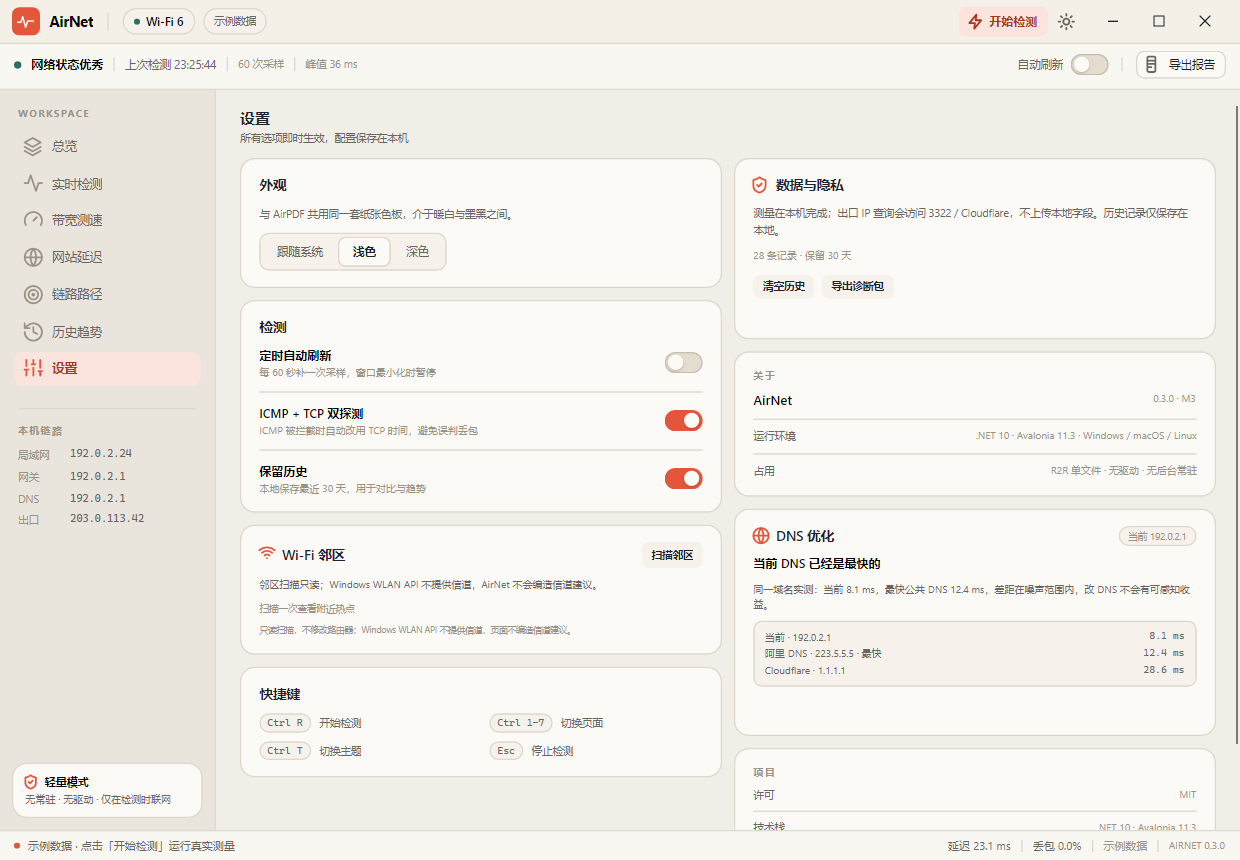
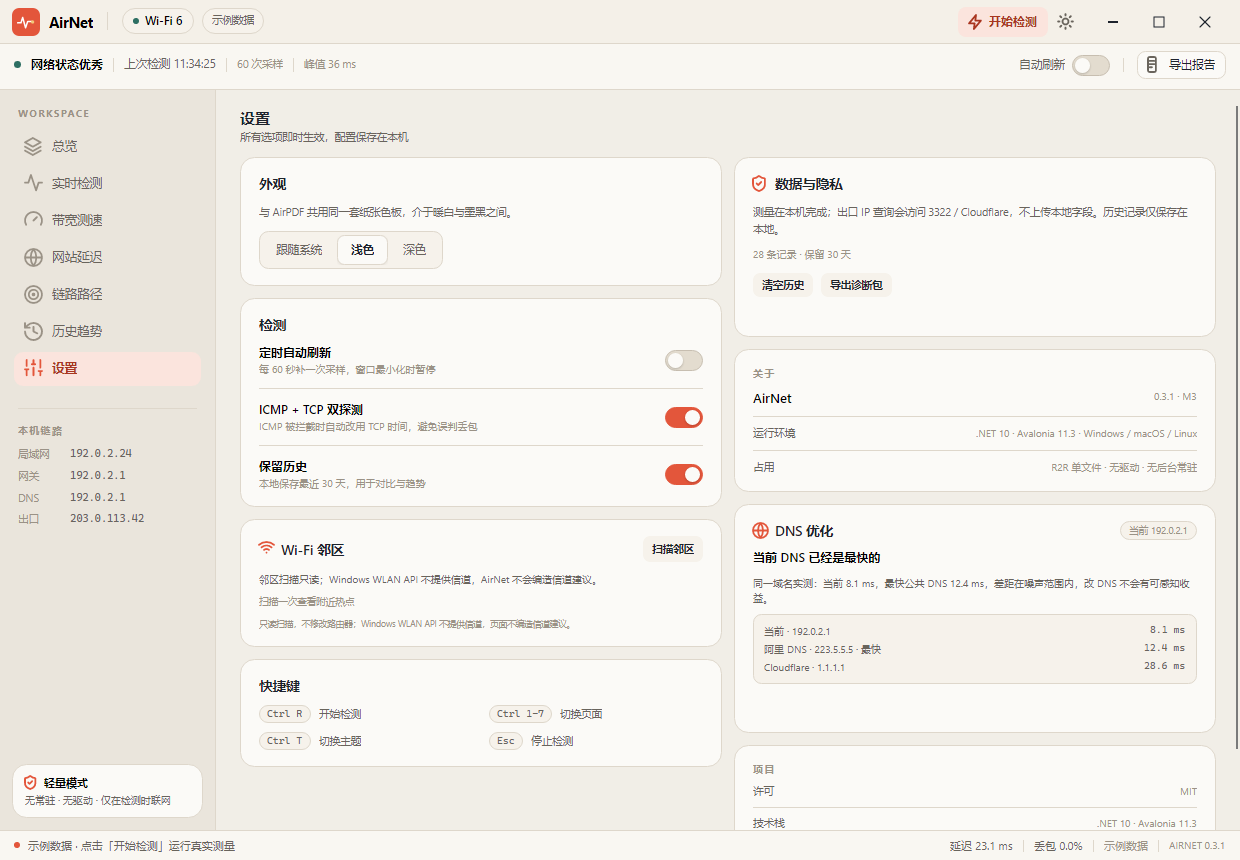
release: 0.3.1
Fix the stale test counts, read the displayed version from the running assembly, and document that the Store remains at 1.0.0.0 for this portable-only maintenance release. Refresh screenshots for the 0.3.1 footer.

diff --git a/src/AirNet.Core/Diagnostics/DiagnosticBundle.cs b/src/AirNet.Core/Diagnostics/DiagnosticBundle.cs
@@ -107,7 +107,9 @@ public static class AppVersion
     {
         try
         {
-            var version = typeof(AppVersion).Assembly.GetName().Version;
+            // The entry assembly is the App; falling back to Core keeps the CLI/test host usable.
+            var assembly = System.Reflection.Assembly.GetEntryAssembly() ?? typeof(AppVersion).Assembly;
+            var version = assembly.GetName().Version;
             return version is null ? "0.0.0" : version.ToString(3);
         }
         catch (Exception ex) when (ex is InvalidOperationException or ArgumentException)

diff --git a/src/AirNet.App/ViewModels/ShellViewModel.cs b/src/AirNet.App/ViewModels/ShellViewModel.cs
@@ -182,6 +182,7 @@ public partial class ShellViewModel : ObservableObject
         }
     }
 
+    public string VersionText => $"AIRNET {AppVersion.Current}";
     public string ConnectionChip => View.IsPending ? "等待检测" : View.InterfaceChip;
     public string LastScanText => View.IsPending ? "尚未检测" : $"上次检测 {View.CapturedAtText}";
     public string FooterLatencyText => $"延迟 {View.LatencyAvgText} ms";

diff --git a/src/AirNet.App/ViewModels/SettingsViewModel.cs b/src/AirNet.App/ViewModels/SettingsViewModel.cs
@@ -81,7 +81,7 @@ public partial class SettingsViewModel : ObservableObject
 
     public bool HasNeighborRows => NeighborRows.Count > 0;
 
-    public string VersionText => "0.3.0 · M3";
+    public string VersionText => $"{AppVersion.Current} · M3";
 
     /// <summary>
     /// The Store channel versions packages on its own line (1.0.0.0, 1.1.0.0, …) while the

diff --git a/CHANGELOG.md b/CHANGELOG.md
@@ -3,6 +3,29 @@
 All notable changes are documented here. The format follows Keep a Changelog and the
 project uses semantic versioning for release tags.
 
+## [0.3.1] - 2026-11-16
+
+Portable-only maintenance release. The Microsoft Store build stays at `1.0.0.0` because this
+round has no Store-visible behavior change; the Store channel will move on the next functional
+patch.
+
+### Changed
+
+- The About card and footer now read the running app version instead of hardcoded `0.3.0`
+  strings, so future version bumps cannot leave stale numbers in screenshots or bug reports.
+- Documentation test counts are now 186 everywhere they describe the current suite.
+
+### Fixed
+
+- README still said 142 tests; TECH_PLAN and WEBSITE_LATENCY repeated the same stale number.
+- The changelog/release-note count (182 at the 0.3.0 tag) is now kept separate from the current
+  186-test suite instead of implying the release had tests that did not exist yet.
+
+### Verified
+
+- 186 unit tests on the 0.3.1 tag.
+- Portable Windows/macOS/Linux AOT assets rebuilt by CI from the tag.
+
 ## [0.3.0] - 2026-11-13
 
 First release that ships through two channels: the GitHub portable archives and the
@@ -59,7 +82,7 @@ The Store listing is live at <https://apps.microsoft.com/detail/9NH3RQW622BK>.
 
 - Windows 11 x64, AOT package, sideloaded: install, icons in all three surfaces, scan,
   the Store-build DNS message, and history surviving a restart.
-- 182 unit tests.
+- 182 unit tests at release; the 0.3.1 line brings the current suite to 186.
 
 ## [0.2.8] - 2026-11-13
 

diff --git a/docs/release/v0.3.1.md b/docs/release/v0.3.1.md
@@ -1,0 +1,22 @@
+## AirNet 0.3.1
+
+便携包维护版。**Microsoft Store 仍是 `1.0.0.0`**——本轮没有商店可见的功能变化，不重复提交审核；
+商店下一次功能补丁再同步。
+
+### 修复
+
+- 关于页与页脚版本不再写死 `0.3.0`，改为读取正在运行的程序集版本。以后换版本不会再出现
+  截图、崩溃日志或诊断包里版本号对不上的情况。
+- README 的单元测试数从 142 修正为 **186**；TECH_PLAN、WEBSITE_LATENCY 同步更新。
+- CHANGELOG 区分“0.3.0 发布时的 182 项”和“0.3.1 当前的 186 项”，不再把新增测试算到旧版本头上。
+
+### 验证
+
+- 186 项单元测试。
+- Windows / macOS / Linux 五平台 AOT 包由 CI 从 `v0.3.1` tag 重新构建。
+
+### 渠道
+
+- GitHub 便携包：`0.3.1`
+- Microsoft Store：`1.0.0.0`（保持已上架版本）
+- 渠道规则：<https://ryzenwang.github.io/AirNet/CHANNELS.html>

diff --git a/docs/WEBSITE_LATENCY.md b/docs/WEBSITE_LATENCY.md
@@ -9,7 +9,7 @@ title: 网站延迟
 > 这是一次**按需**测试，不进入主扫描，也不并入健康分。
 >
 > **状态：已实现（2026-11）**。七页导航、11 个默认站、最多 8 个自定义站、`sites.json`、
-> HTTP 状态识别、`sites.jsonl` 历史、`--sites` CLI、报告表格、142 项单元测试都已接入；
+> HTTP 状态识别、`sites.jsonl` 历史、`--sites` CLI、报告表格、186 项单元测试都已接入；
 > 实现截图见 [04-sites-light.png](shots/04-sites-light.png)。
 >
 > 视觉稿：[主页面](design/site-latency-mockup.png) · [HTML 源稿](design/site-latency-mockup.html)；

diff --git a/docs/CHANNELS.md b/docs/CHANNELS.md
@@ -28,6 +28,7 @@ Partner Center 的硬性要求只有三条：四段数字、末位为 0、每次
 | 商店包版本 | 源码版本 / tag | 日期 | 内容 |
 | --- | --- | --- | --- |
 | `1.0.0.0` | `v0.3.0` | 2026-11-14 | **已上架**：[9NH3RQW622BK](https://apps.microsoft.com/detail/9NH3RQW622BK) —— 趋势页、分享卡片、MSIX 管线 |
+| —（商店未更新） | `v0.3.1` | 2026-11-16 | 便携包维护版：版本号改为读取运行程序集、文档测试数修正；商店继续提供 `1.0.0.0` |
 
 ### 应用内如何解释
 
